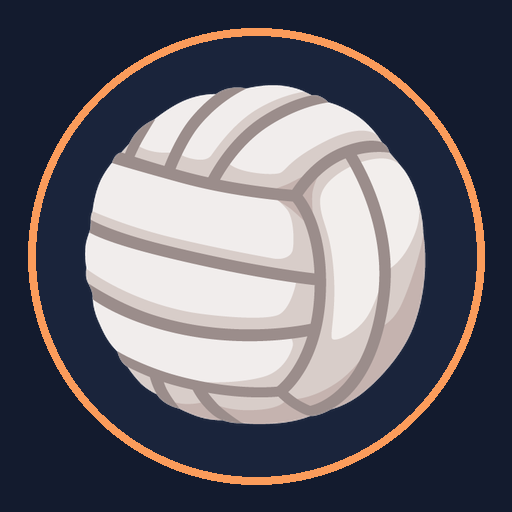
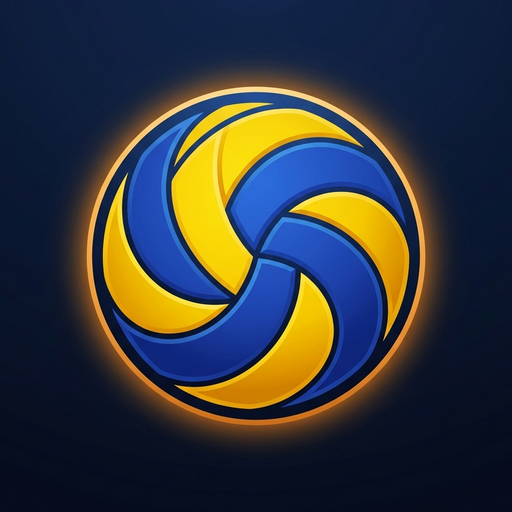
Add files via upload

diff --git a/index.html b/index.html
@@ -1194,6 +1194,93 @@
       border-color: var(--danger-border);
       color: var(--danger-text);
     }
+
+    /* ==================== International Match Yellow-Blue Volleyball Icon & Ambient Neon Glow ==================== */
+    :root {
[1 lines of base64/hex data omitted]
+    }
+
+    .brand-icon {
+      width: 40px !important;
+      height: 40px !important;
+      border-radius: 12px !important;
+      background-color: #0D1527 !important;
+      background-image: var(--mikasa-ball-url) !important;
+      background-size: 112% 112% !important;
+      background-position: center !important;
+      border: 1.5px solid rgba(250, 204, 21, 0.55) !important;
+      font-size: 0 !important;
+      animation: glowGoldBall 3s ease-in-out infinite;
+    }
+
+    .vball-inline-icon {
+      display: inline-block;
+      width: 16px;
+      height: 16px;
+      border-radius: 50%;
+      background-image: var(--mikasa-ball-url);
+      background-size: 118% 118%;
+      background-position: center;
+      vertical-align: -3px;
+      flex-shrink: 0;
+      box-shadow: 0 0 6px rgba(250, 204, 21, 0.45);
+    }
+
+    @keyframes glowGoldBall {
+      0%, 100% {
+        box-shadow: 0 0 8px rgba(250, 204, 21, 0.28), 0 0 16px rgba(249, 115, 22, 0.18);
+      }
+      50% {
+        box-shadow: 0 0 14px rgba(250, 204, 21, 0.55), 0 0 24px rgba(59, 130, 246, 0.32);
+      }
+    }
+
+    @keyframes glowOrange {
+      0%, 100% {
+        box-shadow: 0 0 6px rgba(249, 115, 22, 0.22), inset 0 0 6px rgba(249, 115, 22, 0.08);
+      }
+      50% {
+        box-shadow: 0 0 15px rgba(249, 115, 22, 0.52), 0 0 26px rgba(249, 115, 22, 0.22), inset 0 0 10px rgba(249, 115, 22, 0.16);
+      }
+    }
+
+    @keyframes glowGreen {
+      0%, 100% {
+        box-shadow: 0 0 6px rgba(34, 197, 94, 0.22), inset 0 0 6px rgba(34, 197, 94, 0.08);
+      }
+      50% {
+        box-shadow: 0 0 15px rgba(34, 197, 94, 0.55), 0 0 26px rgba(34, 197, 94, 0.22), inset 0 0 10px rgba(34, 197, 94, 0.16);
+      }
+    }
+
+    @keyframes glowCyan {
+      0%, 100% {
+        box-shadow: 0 0 7px rgba(34, 211, 238, 0.25), inset 0 0 6px rgba(34, 211, 238, 0.08);
+      }
+      50% {
+        box-shadow: 0 0 16px rgba(34, 211, 238, 0.60), 0 0 28px rgba(34, 211, 238, 0.25), inset 0 0 10px rgba(34, 211, 238, 0.18);
+      }
+    }
+
+    /* Apply matching color breathing glow to all active / open buttons & badges */
+    .sheet-link-btn.mode-btn.active,
+    .btn-chip.primary,
+    .week-pill.active,
+    .quarter-tab-btn.active,
+    .pay-dot-btn.owes_ac {
+      animation: glowOrange 2.8s ease-in-out infinite !important;
+    }
+
+    .sheet-link-btn.org-btn.unlocked,
+    .badge-open,
+    .pay-dot-btn.paid,
+    .pay-lamp-btn.paid {
+      animation: glowGreen 2.8s ease-in-out infinite !important;
+    }
+
+    .ac-toggle-btn.active {
+      animation: glowCyan 2.6s ease-in-out infinite !important;
+    }
   </style>
 </head>
 <body>
@@ -1202,7 +1289,7 @@
   <header class="topbar">
     <div class="topbar-inner">
       <div class="brand">
-        <div class="brand-icon">🏐</div>
+        <div class="brand-icon" aria-label="國際比賽黃藍排球"></div>
         <div>
           <div class="brand-title" id="brandTitle">頭前混排, 週二7-9pm</div>
           <div class="brand-sub" id="brandSub">點擊隊員圓形頭像可上傳照片・單欄極速同步 Google Sheet</div>
@@ -1210,7 +1297,7 @@
       </div>
       <div class="topbar-actions">
         <select id="sheetSelector" class="sheet-select" onchange="onSwitchSheet(this.value)" title="切換年度或分頁"></select>
-        <button class="sheet-link-btn mode-btn active" id="tabBtnWeekly" onclick="switchMode('weekly')">🏐 打球名單</button>
+        <button class="sheet-link-btn mode-btn active" id="tabBtnWeekly" onclick="switchMode('weekly')"><span class="vball-inline-icon"></span> 打球名單</button>
         <button class="sheet-link-btn mode-btn" id="tabBtnQuarterly" onclick="switchMode('quarterly')">💰 季打收費統計</button>
         <button class="sheet-link-btn org-btn" id="orgModeBtn" onclick="toggleOrganizerMode()" title="防手機滑動誤觸鎖：主揪要登記收錢或開冷氣時點此解鎖">
           🔒 主揪收費：關
@@ -1409,7 +1496,7 @@
     // 📌 【GitHub Pages 必填設定】
     // 請將下方引號內的文字，替換成你部署 GAS 取得的「網頁應用程式網址 (https://script.google.com/macros/s/.../exec)」
     // ============================================================================
-    const GAS_API_URL = 'https://script.google.com/macros/s/AKfycbwObTTxyOYfb0j-bQcB40eIiGAv07xQdYve3En1mJF5mQDYjAnV-Grp16uKntCVbUV6/exec';
+    const GAS_API_URL = 'PASTE_YOUR_GAS_EXEC_URL_HERE';
 
     let APP_DATA = null;
     let CURRENT_SHEET_NAME = '';
